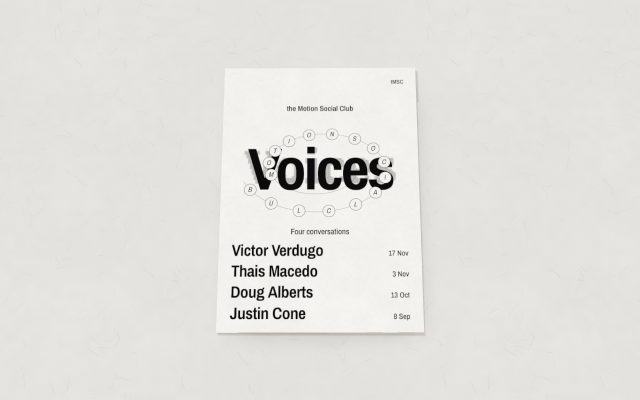
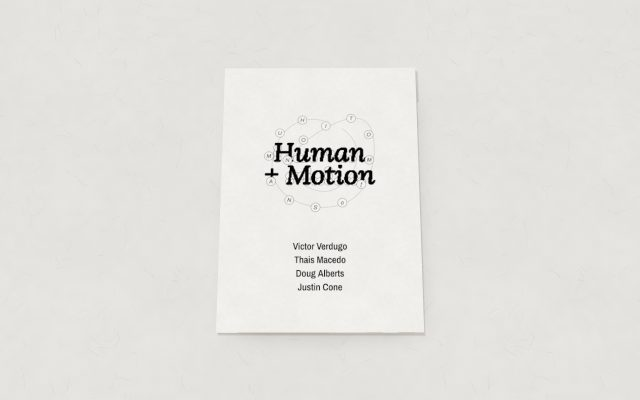
tMSC Voices: Human + Motion cover from the supplied artwork
The default cover is the Human + Motion artwork used as-is (not redrawn), cropped to the
drawing on its own background colour, with the four guests' names below. The cover control
is now 'Cover layout' (Human + Motion, Orbit, Plain, Full image, Image on color).

Claude-Session: https://claude.ai/code/session_01TARX4ZTpTNPwo2gLfwacvw

diff --git a/playground/app/prototypes/tmsc-voices-magazine/setup.ts b/playground/app/prototypes/tmsc-voices-magazine/setup.ts
@@ -14,7 +14,7 @@ const texture = (kind: unknown, strength: unknown, fallback: TextureKind | "None
 
 
 export type CoverSetup = {
-  style: "orbit" | "type" | "full" | "on-color";
+  style: "artwork" | "orbit" | "type" | "full" | "on-color";
   /** "upload" or the interview whose picked image goes on the cover */
   source: "upload" | 1 | 2 | 3 | 4;
   color: string;
@@ -46,8 +46,8 @@ export type PageSetup = {
 export type TextureChoice = { kind: TextureKind | "None"; strength: number };
 export type StageSetup = { color: string; texture: TextureChoice; grid: boolean };
 
-// "Type" is the dotted orbit cover; "Plain" keeps the first typographic cover
-const COVER_STYLE = { Type: "orbit", Plain: "type", "Full image": "full", "Image on color": "on-color" } as const;
+// "Human + Motion" is the supplied artwork; "Orbit" the dotted cover; "Plain" the first typographic one
+const COVER_STYLE = { "Human + Motion": "artwork", Orbit: "orbit", Plain: "type", "Full image": "full", "Image on color": "on-color" } as const;
 const COVER_SOURCE = { Uploaded: "upload", Victor: 1, Thais: 2, Doug: 3, Justin: 4 } as const;
 
 /** A percent control → 0.3…1, tolerant of stale stored values. */
@@ -59,7 +59,7 @@ export function pageSetup(v: Record<string, unknown>): PageSetup {
   const pick = (order: 1 | 2 | 3 | 4) =>
     resolveMedia(order, String(v[`${NAMES[order]}Image`]), Number(v[`${NAMES[order]}Frame`]));
   const cover: CoverSetup = {
-    style: COVER_STYLE[v.coverStyle as keyof typeof COVER_STYLE] ?? "orbit",
+    style: COVER_STYLE[v.coverLayout as keyof typeof COVER_STYLE] ?? "artwork",
     source: COVER_SOURCE[v.coverImage as keyof typeof COVER_SOURCE] ?? "upload",
     color: /^#[0-9a-f]{6}$/i.test(String(v.coverBg)) ? String(v.coverBg) : COVER.bg,
     // the cover ink is printed black or white, never a UI color

diff --git a/playground/app/prototypes/tmsc-voices-magazine/layout-cover-artwork.ts b/playground/app/prototypes/tmsc-voices-magazine/layout-cover-artwork.ts
@@ -1,0 +1,37 @@
+import { font, type Ctx } from "./canvas-type";
+import { INTERVIEWS } from "./content";
+import { ASSET_BASE, PAGE_PX } from "./data";
+
+/**
+ * The Human + Motion cover: the artwork exactly as supplied (pixels, not redrawn), on its own
+ * paper colour, with the four guests set below it. Nothing else on the page.
+ */
+
+export const ARTWORK_URL = `${ASSET_BASE}/cover/human-motion.png`;
+/** The artwork's background (sampled from the file), so the page and the image meet seamlessly. */
+const ARTWORK_BG = "#FCFCFC";
+const ARTWORK_INK = "#0C0C0C";
+/** The drawing inside the 1080×1350 file, with a little air around it. */
+const CROP = { x: 207, y: 368, w: 666, h: 614 };
+
+const W = PAGE_PX.w;
+const H = PAGE_PX.h;
+
+export function drawArtworkCover(ctx: Ctx, art: HTMLImageElement | null) {
+  ctx.fillStyle = ARTWORK_BG;
+  ctx.fillRect(0, 0, W, H);
+  const w = 1000;
+  const h = (CROP.h / CROP.w) * w;
+  const top = 300; // artwork + names centred on the page as one group
+  if (art) {
+    ctx.imageSmoothingQuality = "high";
+    ctx.drawImage(art, CROP.x, CROP.y, CROP.w, CROP.h, (W - w) / 2, top, w, h);
+  }
+  // the creators, centred under the artwork
+  ctx.fillStyle = ARTWORK_INK;
+  ctx.textAlign = "center";
+  font(ctx, 600, 70, -0.01);
+  const first = top + h + 190;
+  INTERVIEWS.forEach((it, i) => ctx.fillText(it.guest, W / 2, first + i * 98));
+  ctx.textAlign = "left";
+}

diff --git a/playground/app/prototypes/tmsc-voices-magazine/page-bake.ts b/playground/app/prototypes/tmsc-voices-magazine/page-bake.ts
@@ -1,6 +1,7 @@
 import type { PageSetup } from "./setup";
 import { ASSET_BASE, FONT_FAMILY, FONT_URL, PAGE_PX } from "./data";
 import { SLAB_FAMILY } from "./layout-cover-orbit";
+import { ARTWORK_URL } from "./layout-cover-artwork";
 import type { Book } from "./faces";
 import { drawBackCover, drawCover } from "./layout-covers";
 import { drawEditorialLeft, drawEditorialRight, layoutEditorial, type EditorialImage, type EditorialLayout } from "./layout-editorial";
@@ -56,7 +57,8 @@ export async function bakePages(
   textureImage: HTMLImageElement | null,
 ): Promise<Map<string, HTMLCanvasElement>> {
   const { cover, editorial } = setup;
-  const coverUrl = cover.style === "type" || cover.style === "orbit" ? null : cover.source === "upload" ? uploaded : setup.media[cover.source]?.url;
+  const coverUrl =
+    cover.style === "artwork" ? ARTWORK_URL : cover.style === "type" || cover.style === "orbit" ? null : cover.source === "upload" ? uploaded : setup.media[cover.source]?.url;
   const [, coverImg, intro, textImages] = await Promise.all([
     loadFont(),
     loadImage(coverUrl),

diff --git a/playground/app/prototypes/tmsc-voices-magazine/magazine.test.ts b/playground/app/prototypes/tmsc-voices-magazine/magazine.test.ts
@@ -175,11 +175,12 @@ describe("cover setup", () => {
     const { defaultValues } = await import("@/components/controls");
     const { COVER, BACK_COVER } = await import("./data");
     const v = defaultValues(controls);
-    expect(pageSetup(v).cover.style).toBe("orbit");
-    expect(pageSetup({ ...v, coverStyle: "Plain" }).cover.style).toBe("type");
+    expect(pageSetup(v).cover.style).toBe("artwork");
+    expect(pageSetup({ ...v, coverLayout: "Orbit" }).cover.style).toBe("orbit");
+    expect(pageSetup({ ...v, coverLayout: "Plain" }).cover.style).toBe("type");
     expect([COVER.bg, BACK_COVER.bg]).toEqual(["#FFFFFF", "#FFFFFF"]);
     expect([COVER.ink, BACK_COVER.ink]).toEqual(["#0C0C0C", "#0C0C0C"]);
-    const c = pageSetup({ ...v, coverStyle: "Image on color", coverImage: "Doug", coverBg: "#cc84fc", coverInk: "White" }).cover;
+    const c = pageSetup({ ...v, coverLayout: "Image on color", coverImage: "Doug", coverBg: "#cc84fc", coverInk: "White" }).cover;
     expect(c).toEqual({ style: "on-color", source: 3, color: "#cc84fc", ink: "#FFFFFF", scale: 1 });
   });
 });

diff --git a/playground/app/prototypes/tmsc-voices-magazine/tmsc-magazine.tsx b/playground/app/prototypes/tmsc-voices-magazine/tmsc-magazine.tsx
@@ -88,7 +88,7 @@ export function TmscMagazine() {
   useMagazineKeys(driverRef, live);
 
   const { set } = c;
-  const coverStyle = c.values.coverStyle;
+  const coverLayout = c.values.coverLayout;
   const upload = useCallback(
     async (what: "cover" | "texture", file: File) => {
       setError(null);
@@ -96,7 +96,8 @@ export function TmscMagazine() {
         if (what === "cover") {
           await coverUpload.save(file);
           set("coverImage", "Uploaded");
-          if (coverStyle === "Type") set("coverStyle", "Full image");
+          // an upload is meant to be seen: switch away from the layouts that don't use it
+          if (coverLayout !== "Full image" && coverLayout !== "Image on color") set("coverLayout", "Full image");
           live();
           driverRef.current.controller.goTo(0);
         } else {
@@ -107,7 +108,7 @@ export function TmscMagazine() {
         setError(e instanceof Error ? e.message : "That image didn't load.");
       }
     },
-    [set, coverStyle, live],
+    [set, coverLayout, live],
   );
 
   const turn = useCallback(

diff --git a/playground/app/prototypes/tmsc-voices-magazine/controls.ts b/playground/app/prototypes/tmsc-voices-magazine/controls.ts
@@ -48,7 +48,7 @@ export const controls = defineControls({
   textSize: { type: "select", label: "Q&A text", options: ["Small", "Medium", "Large"], default: "Medium" },
   textImageSize: { type: "number", label: "Q&A image size %", min: 30, max: 100, step: 5, default: 100 },
   textPage: { type: "color", label: "Q&A page color", default: "#FFFFFF" },
-  coverStyle: { type: "select", label: "Cover", options: ["Type", "Plain", "Full image", "Image on color"], default: "Type" },
+  coverLayout: { type: "select", label: "Cover layout", options: ["Human + Motion", "Orbit", "Plain", "Full image", "Image on color"], default: "Human + Motion" },
   coverImage: { type: "select", label: "Cover image", options: ["Uploaded", "Victor", "Thais", "Doug", "Justin"], default: "Uploaded" },
   coverBg: { type: "color", label: "Cover color", default: COVER.bg },
   coverImageSize: { type: "number", label: "Cover image size %", min: 30, max: 100, step: 5, default: 100 },

diff --git a/playground/app/prototypes/tmsc-voices-magazine/layout-covers.ts b/playground/app/prototypes/tmsc-voices-magazine/layout-covers.ts
@@ -4,6 +4,7 @@ import type { CoverSetup } from "./setup";
 import { PAGE_PX } from "./data";
 import type { PageInk } from "./types";
 import { drawOrbitCover } from "./layout-cover-orbit";
+import { drawArtworkCover } from "./layout-cover-artwork";
 
 /** Cover and back cover, drawn at the design size (PAGE_PX). */
 
@@ -17,6 +18,7 @@ const ROW_H = 150;
  * into a color field. The type layout is the same in all three, so the masthead never moves.
  */
 export function drawCover(ctx: Ctx, cover: CoverSetup, img: HTMLImageElement | null) {
+  if (cover.style === "artwork") return drawArtworkCover(ctx, img);
   if (cover.style === "orbit") return drawOrbitCover(ctx, cover);
   const style = img ? cover.style : cover.style === "full" ? "on-color" : cover.style;
   ctx.fillStyle = cover.color;

diff --git a/playground/app/prototypes/tmsc-voices-magazine/README.md b/playground/app/prototypes/tmsc-voices-magazine/README.md
@@ -95,9 +95,10 @@ Además de la textura impresa, el papel tiene su tratamiento como material:
 
 ## Tapa
 
-En el panel, **Cover** elige el estilo:
+En el panel, **Cover layout** elige el estilo:
 
-- **Type** (el default): blanco con tipo negro. "the Motion Social Club" va como pretítulo y "Voices" en Archivo Narrow bold negro, con un "Voices" en puntos gris claro por detrás (slab serif Bitter) y una órbita en espiral con las letras del club. Debajo van "Four conversations" y los cuatro invitados con su fecha, el mismo texto de siempre.
+- **Human + Motion** (el default): la pieza Human + Motion tal cual (la imagen original, sin redibujar) y debajo solo los cuatro invitados.
+- **Orbit:** blanco con tipo negro. "the Motion Social Club" va como pretítulo y "Voices" en Archivo Narrow bold negro, con un "Voices" en puntos gris claro por detrás (slab serif Bitter) y una órbita en espiral con las letras del club. Debajo van "Four conversations" y los cuatro invitados con su fecha, el mismo texto de siempre.
 - **Plain:** la tapa tipográfica anterior, sin puntos ni órbita.
 - **Full image:** la imagen a sangre, con el tipo encima.
 - **Image on color:** la imagen dentro de un fondo del color que elijas en **Cover color** (que también colorea la tapa Type).

diff --git a/playground/app/prototypes/tmsc-voices-magazine/ideas.md b/playground/app/prototypes/tmsc-voices-magazine/ideas.md
@@ -24,6 +24,7 @@ Formato: idea, tamaño (S/M/L), estado. Estados: pendiente, en curso, hecha, des
 - **Fondo del canvas** — S — hecha. Color a elegir, textura de papel y grilla opcional (apagada por defecto).
 - **Línea de tiempo con easing y duraciones** — L — hecha. Valores generales en el panel; en la línea de tiempo, preview, scrub, bloques a escala con su curva, estirar arrastrando, duración y easing por giro, persistido.
 - **Texturas intercambiables** — M — hecha. Siete papeles (incluida una textura subida) para páginas y fondo por separado, con intensidad.
+- **Tapa Human + Motion** — S — hecha. La imagen original tal cual, sobre su mismo color de fondo, con los cuatro invitados debajo. Es el default.
 - **Tapa con título de puntos y órbita** — M — hecha. Estética de las referencias de Human + Motion: título sólido en Archivo Narrow con un "Voices" en puntos claros detrás, espiral con letras en círculos; mismo texto que antes. La tapa anterior queda como "Plain".
 - **Papel como material 3D** — M — hecha. Acabado (mate a brillante), relieve con bump desde la textura, peso (curvatura y grosor) y ondulación.
 - **Curva bézier editable a mano** (arrastrar los handles) — M — después. Hoy son presets.

diff --git a/playground/app/prototypes/tmsc-voices-magazine/HOW_IT_WORKS.md b/playground/app/prototypes/tmsc-voices-magazine/HOW_IT_WORKS.md
@@ -46,6 +46,13 @@ the conversation set in columns, as in a printed magazine.
 
 ## Cover
 
+**Cover layout** (renamed from Cover so earlier stored choices don't hide the new default):
+**Human + Motion** (default) is the supplied artwork, used as-is from
+`public/prototype-assets/<slug>/cover/human-motion.png` (not redrawn), cropped to the drawing
+and set on its own background colour (#FCFCFC), with only the four guests' names below
+(`layout-cover-artwork.ts`). **Orbit** is the dotted cover described next.
+
+
 **Type** (default) is the dotted orbit cover (`layout-cover-orbit.ts`): "the Motion Social
 Club" as a pre-title, "Voices" in solid Archivo Narrow bold, over a light dotted "Voices" in
 Bitter 800 (OFL, `public/prototype-assets/<slug>/fonts/`, built from dots by `dot-type.ts`), a thin spiral orbit with the letters of MOTION SOCIAL CLUB in rings, then
